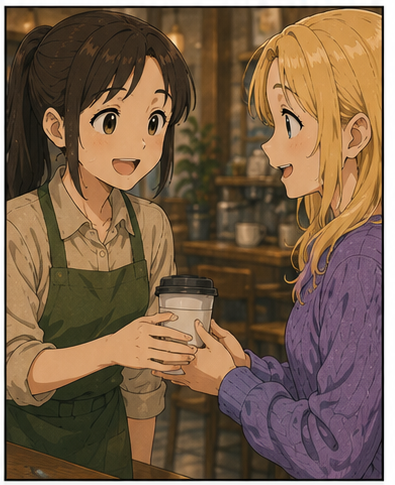
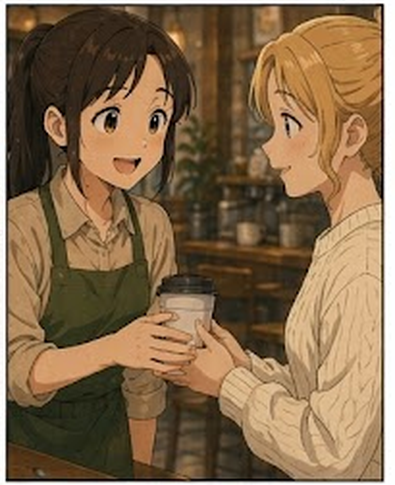
K-PATTO: replace ep26/43/45/64 cut images with regenerated art
scripts/kpatto-replace-cuts.py removes the Gemini sparkle (reverse alpha
blend measured on ep43/45 + thin inpaint on the edge), splits each page at
the middle of its white gutters like the existing cuts, checks the row
layout against the current files, and writes PNGs at the existing sizes.
It skips a page whose shape would stretch a cut by more than 3%; ep42's new
page is narrower (338x1024) so it was not replaced.

diff --git a/scripts/kpatto-replace-cuts.py b/scripts/kpatto-replace-cuts.py
@@ -1,0 +1,200 @@
+"""
+K-PATTO 컷 이미지 교체 — 다시 만든 한 장짜리 만화를 컷으로 잘라 기존 컷 파일을 덮어쓴다.
+
+  1) 오른쪽 아래 Gemini 반짝이 워터마크를 지운다.
+     반짝이는 흰색을 일정 비율로 섞은 것이라, 매끈한 배경 위의 반짝이에서 섞인 비율(알파 맵)을 재고
+     그 비율을 거꾸로 풀어 원래 색을 되살린다. 경계 1~2px 의 잔상은 cv2.inpaint 로 메운다.
+     워터마크가 없는 이미지(밝기 차이가 없으면)는 건드리지 않는다.
+  2) 칸 사이 흰 여백(가로·세로)을 찾아 그 한가운데에서 자른다 — 기존 컷도 여백 가운데에서 잘려 있다.
+  3) 줄마다 컷 수(와이드 1 · 분할 2)가 기존 컷 파일과 같은지 확인하고,
+     각 컷을 기존 파일과 같은 크기 · 같은 이름(.png)으로 저장한다(LANCZOS 리사이즈).
+  덮어쓰기 전에 기존 컷을 --backup 폴더에 복사해 둔다.
+
+실행: python scripts/kpatto-replace-cuts.py --src <원본 폴더> --backup <백업 폴더> [--dry-run]
+원본 파일 이름은 ep26.png · ep42.jpg 처럼 화 번호로 한다.
+"""
+import argparse
+import glob
+import os
+import re
+import shutil
+
+import cv2
+import numpy as np
+from PIL import Image
+
+PUBLIC = os.path.join(os.path.dirname(__file__), '..', 'public', 'kpatto')
+
+# 반짝이: 이미지 오른쪽 아래 모서리에서 (75, 75) 안쪽이 중심, 지름 약 30px (1024px 높이 이미지 기준 실측)
+WM_OFFSET = 75
+WM_RADIUS = 15
+MAX_STRETCH = 0.03
+# 알파 맵을 잴 이미지: 반짝이가 어두운 단색 배경 위에 있는 것
+ALPHA_REFS = ('ep43', 'ep45')
+
+
+def load(path):
+    return cv2.imdecode(np.fromfile(path, np.uint8), cv2.IMREAD_COLOR)
+
+
+def star_mask(size, radius, grow=0):
+    """오목한 네 꼭짓점 별 — |x|^p + |y|^p <= r^p (p<1 이면 오목)."""
+    c = size // 2
+    yy, xx = np.mgrid[0:size, 0:size].astype(np.float32)
+    x, y = np.abs(xx - c), np.abs(yy - c)
+    p = 0.6
+    m = ((x / (radius + grow)) ** p + (y / (radius + grow)) ** p) <= 1.0
+    return m.astype(np.uint8)
+
+
+def wm_box(img):
+    h, w = img.shape[:2]
+    cx, cy = w - WM_OFFSET, h - WM_OFFSET
+    r = WM_RADIUS + 8
+    return cx - r, cy - r, 2 * r + 1
+
+
+def estimate_alpha(paths):
+    """매끈한 배경 위 반짝이에서 섞인 흰색 비율(알파) 맵을 잰다."""
+    maps = []
+    for p in paths:
+        img = load(p)
+        x0, y0, s = wm_box(img)
+        patch = img[y0:y0 + s, x0:x0 + s].astype(np.float32)
+        hole = cv2.dilate(star_mask(s, WM_RADIUS, 2), np.ones((3, 3), np.uint8))
+        bg = cv2.inpaint(img[y0:y0 + s, x0:x0 + s], hole, 5, cv2.INPAINT_TELEA).astype(np.float32)
+        a = (patch - bg) / np.maximum(255.0 - bg, 1.0)
+        maps.append(np.clip(a.mean(axis=2), 0, 1))
+    return np.mean(maps, axis=0)
+
+
+def has_watermark(img):
+    x0, y0, s = wm_box(img)
+    g = cv2.cvtColor(img[y0:y0 + s, x0:x0 + s], cv2.COLOR_BGR2GRAY).astype(np.float32)
+    inner = star_mask(s, WM_RADIUS - 5).astype(bool)
+    ring = (star_mask(s, WM_RADIUS + 7) - star_mask(s, WM_RADIUS + 2)).astype(bool)
+    return float(g[inner].mean() - g[ring].mean())
+
+
+def remove_watermark(img, alpha):
+    x0, y0, s = wm_box(img)
+    patch = img[y0:y0 + s, x0:x0 + s].astype(np.float32)
+    a = alpha[..., None]
+    restored = (patch - 255.0 * a) / np.maximum(1.0 - a, 0.05)
+    out = img.copy()
+    out[y0:y0 + s, x0:x0 + s] = np.clip(restored, 0, 255).astype(np.uint8)
+    # 별 테두리(안티앨리어싱 · JPEG 번짐)는 잔상이 남기 쉬워 얇게 inpaint 한다
+    edge = (star_mask(s, WM_RADIUS, 2) - star_mask(s, WM_RADIUS, -2)).astype(np.uint8)
+    full = np.zeros(img.shape[:2], np.uint8)
+    full[y0:y0 + s, x0:x0 + s] = edge
+    return cv2.inpaint(out, full, 3, cv2.INPAINT_TELEA)
+
+
+def runs(mask):
+    out, start = [], None
+    for i, v in enumerate(mask):
+        if v and start is None:
+            start = i
+        if not v and start is not None:
+            out.append((start, i - 1))
+            start = None
+    if start is not None:
+        out.append((start, len(mask) - 1))
+    return out
+
+
+def gutters(gray, axis):
+    """흰 여백 줄(97% 이상이 밝은 행/열) 구간."""
+    return runs(((gray > 225).mean(axis=axis) > 0.97).tolist())
+
+
+def cut_boxes(img):
+    """[(x0, y0, x1, y1), ...] 행 순서 → 왼쪽부터. 경계는 여백 한가운데, 바깥 테두리는 이미지 끝."""
+    gray = cv2.cvtColor(img, cv2.COLOR_BGR2GRAY)
+    h, w = gray.shape
+    hg = gutters(gray, 1)
+    inner = [g for g in hg if 0.05 * h < g[0] and g[1] < 0.95 * h]   # 바깥 테두리 여백은 경계가 아니다
+    ys = [0] + [(a + b + 1) // 2 for a, b in inner] + [h]
+    # 세로 여백은 그림 부분만 보고 찾는다 — 가로 여백 줄이 섞이면 밝은 그림 열이 여백으로 잡힌다
+    art = [(a[1] + 1, b[0]) for a, b in zip([(-1, -1)] + hg, hg + [(h, h)]) if b[0] - a[1] > 20]
+    rows = []
+    for (y0, y1), (a0, a1) in zip(zip(ys, ys[1:]), art):
+        band = gray[a0:a1]
+        vin = [g for g in gutters(band, 0) if 0.05 * w < g[0] and g[1] < 0.95 * w]
+        xs = [0] + [(a + b + 1) // 2 for a, b in vin] + [w]
+        rows.append([(x0, y0, x1, y1) for x0, x1 in zip(xs, xs[1:])])
+    return rows
+
+
+def existing_rows(ep):
+    """기존 컷 파일을 줄 단위로 묶는다 — 전체 폭이면 한 줄에 하나, 아니면 두 장이 한 줄."""
+    files = sorted(glob.glob(os.path.join(PUBLIC, f'ep-{ep:03d}', f'ep{ep}_c*.png')),
+                   key=lambda p: int(re.search(r'_c(\d+)\.png$', p).group(1)))
+    sizes = [(p, Image.open(p).size) for p in files]
+    full = max(s[0] for _, s in sizes)
+    rows, i = [], 0
+    while i < len(sizes):
+        if sizes[i][1][0] >= full - 2:
+            rows.append([sizes[i]]); i += 1
+        else:
+            rows.append(sizes[i:i + 2]); i += 2
+    return rows
+
+
+def main():
+    ap = argparse.ArgumentParser()
+    ap.add_argument('--src', required=True)
+    ap.add_argument('--backup', required=True)
+    ap.add_argument('--preview', help='워터마크 지운 원본 전체를 저장할 폴더(확인용)')
+    ap.add_argument('--dry-run', action='store_true')
+    args = ap.parse_args()
+
+    sources = {int(re.match(r'ep(\d+)', os.path.basename(p)).group(1)): p
+               for p in glob.glob(os.path.join(args.src, 'ep*.*'))}
+    alpha = estimate_alpha([sources[int(n[2:])] for n in ALPHA_REFS])
+
+    for ep in sorted(sources):
+        img = load(sources[ep])
+        h, w = img.shape[:2]
+        score = has_watermark(img)
+        if score > 12:
+            img = remove_watermark(img, alpha)
+        wm = f'watermark removed (contrast {score:.0f})' if score > 12 else f'no watermark (contrast {score:.0f})'
+        if args.preview:
+            os.makedirs(args.preview, exist_ok=True)
+            cv2.imwrite(os.path.join(args.preview, f'ep{ep}_clean.png'), img)
+
+        rows, old = cut_boxes(img), existing_rows(ep)
+        layout_new = [len(r) for r in rows]
+        layout_old = [len(r) for r in old]
+        print(f'ep{ep}: source {w}x{h}, {wm}, rows {layout_new} (existing {layout_old})')
+        if layout_new != layout_old:
+            print(f'  ✗ layout differs from the existing cuts — skipped')
+            continue
+
+        plan = []
+        for new_row, old_row in zip(rows, old):
+            for (x0, y0, x1, y1), (path, (tw, th)) in zip(new_row, old_row):
+                stretch = (tw / th) / ((x1 - x0) / (y1 - y0)) - 1
+                plan.append(((x0, y0, x1, y1), path, (tw, th), stretch))
+                print(f'  {os.path.basename(path)}: crop {x1 - x0}x{y1 - y0} → {tw}x{th} (aspect change {stretch:+.1%})')
+        # 원본 비율이 기존 컷과 다르면 같은 크기로 맞출 때 그림이 늘어난다 — 덮어쓰지 않는다
+        if max(abs(p[3]) for p in plan) > MAX_STRETCH:
+            print(f'  ✗ aspect change over {MAX_STRETCH:.0%} — skipped (the source has a different shape)')
+            continue
+        if args.dry_run:
+            continue
+
+        pil = Image.fromarray(cv2.cvtColor(img, cv2.COLOR_BGR2RGB))
+        for box, path, size, _ in plan:
+            name = os.path.basename(path)
+            os.makedirs(os.path.join(args.backup, f'ep-{ep:03d}'), exist_ok=True)
+            bak = os.path.join(args.backup, f'ep-{ep:03d}', name)
+            if not os.path.exists(bak):
+                shutil.copy2(path, bak)
+            pil.crop(box).resize(size, Image.LANCZOS).save(path, 'PNG', optimize=True)
+        print(f'  ✓ {len(plan)} cuts written')
+
+
+if __name__ == '__main__':
+    main()
